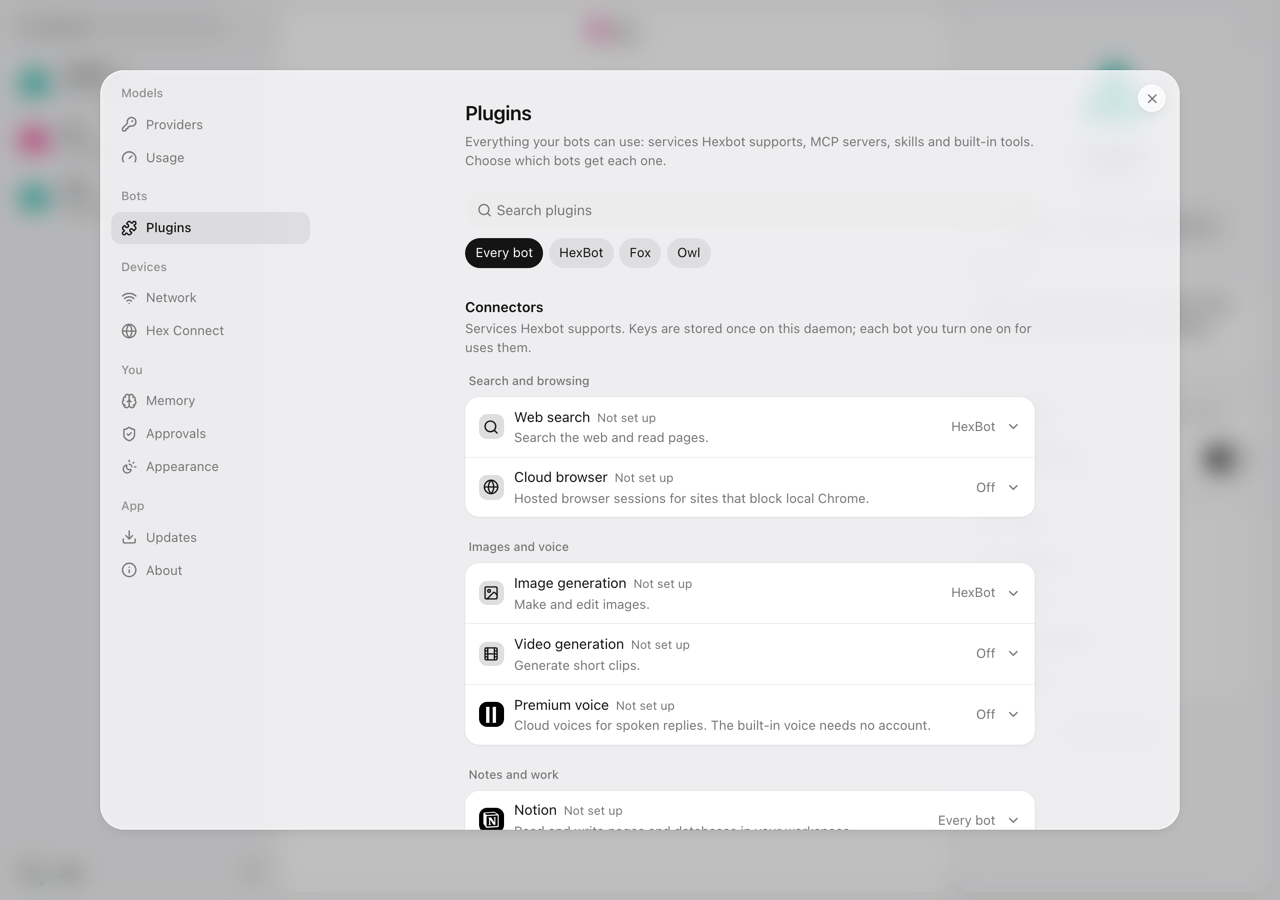
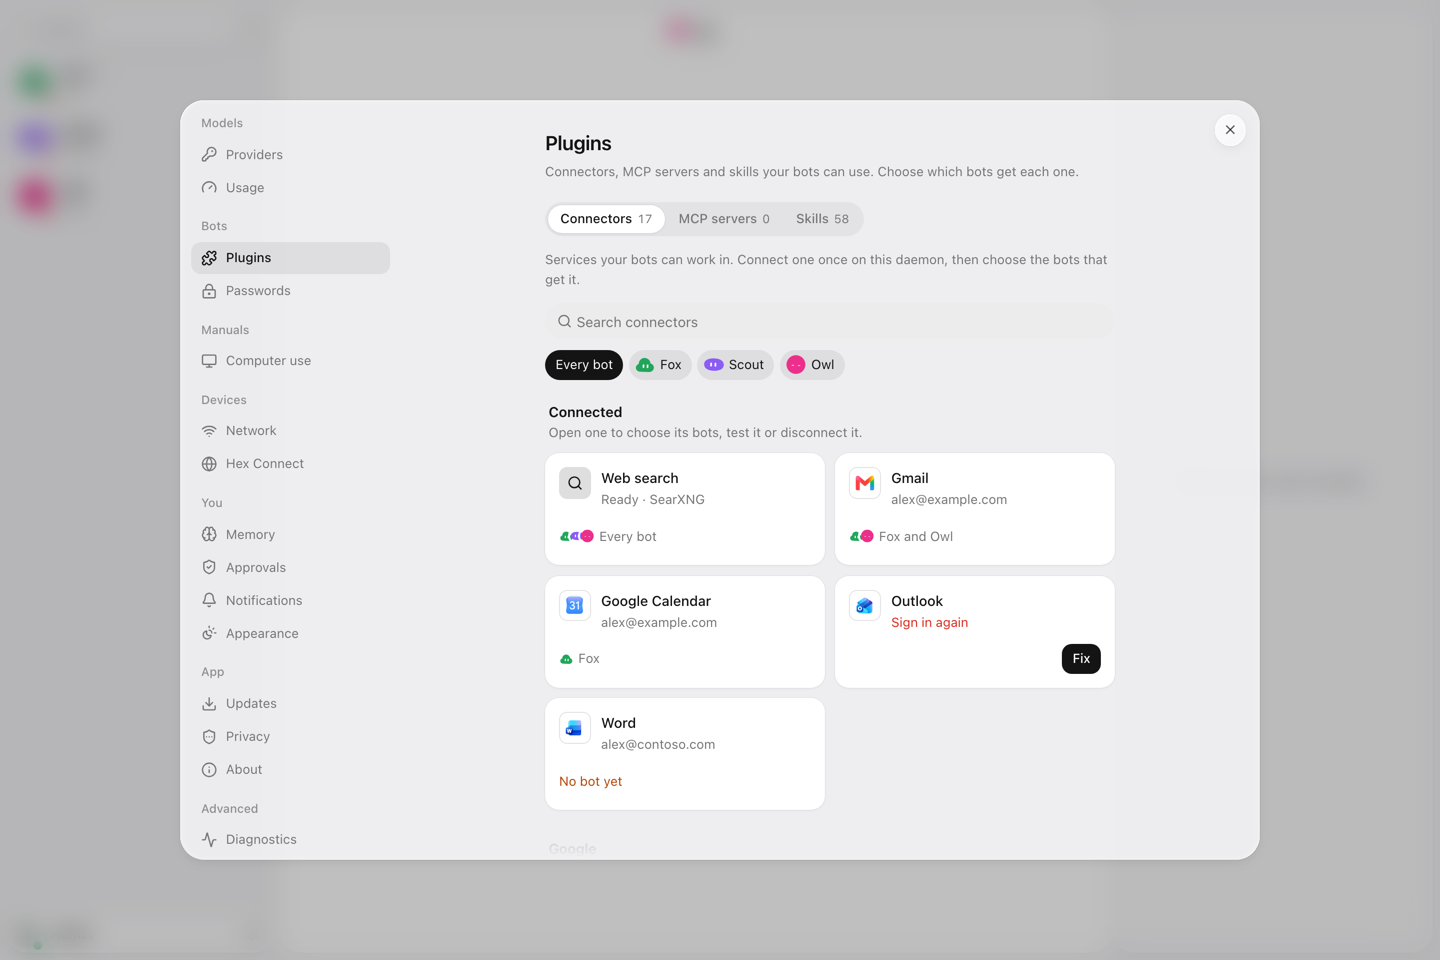
fix(daemon): a spreadsheet row too long to show is refused with the part to read first
Also refreshes the Plugins screenshots in docs/screens.

diff --git a/backend/hexbot-core/src/runtime_workspace.rs b/backend/hexbot-core/src/runtime_workspace.rs
@@ -347,13 +347,40 @@ pub(super) fn workbook_text(file: &Archive) -> Result<String> {
 
 /// Puts the rows of one read into `out`, cut to what a model is handed,
 /// with the range they are and, when rows were left, the range to read
-/// next. `rest` is what the read itself left of the range asked for.
+/// next. `rest` is what the read itself left of the range asked for. A
+/// first row that is itself too long is refused, with the part of it to
+/// read first: rows can't cut it, and nothing is dropped unsaid.
 pub(super) fn put_rows(
     out: &mut Value,
     mut rows: Vec<Value>,
     shown: excel::Range,
     rest: Option<excel::Range>,
-) {
+) -> Result<()> {
+    let cells = rows.first().and_then(Value::as_array);
+    if let Some(cells) = cells.filter(|cells| cells.len() > 1) {
+        let mut size = 0;
+        let fit = cells
+            .iter()
+            .take_while(|cell| {
+                size += cell.to_string().len();
+                size <= TEXT_CAP
+            })
+            .count();
+        if fit < cells.len() {
+            let part = excel::Range {
+                from: shown.from,
+                to: (shown.from.0, shown.from.1 + fit.max(1) as u32 - 1),
+            };
+            return Err(Error::new(
+                4202,
+                format!(
+                    "Row {} holds too much text to read whole. Read it in parts, starting with {}.",
+                    shown.from.0,
+                    part.name()
+                ),
+            ));
+        }
+    }
     let mut size = 0;
     let keep = rows
         .iter()
@@ -361,7 +388,7 @@ pub(super) fn put_rows(
             size += row.to_string().len();
             size > TEXT_CAP
         })
-        // The row that goes over still shows when it is the only one.
+        // A cell on its own always shows: no cell holds much more.
         .map_or(rows.len(), |at| at.max(1));
     let (shown, rest) = if keep < rows.len() {
         let last = shown.from.0 + keep as u32 - 1;
@@ -384,6 +411,7 @@ pub(super) fn put_rows(
     if let Some(rest) = rest {
         out["next_range"] = json!(rest.name());
     }
+    Ok(())
 }
 
 fn deck_text(slides: &[powerpoint::Slide]) -> String {
@@ -819,7 +847,7 @@ impl Runtime {
                     )
                     .await?;
                     let rows = out["rows"].take().as_array().cloned().unwrap_or_default();
-                    put_rows(&mut out, rows, shown, rest);
+                    put_rows(&mut out, rows, shown, rest)?;
                     out["id"] = json!(id);
                     return Ok(out);
                 }
@@ -843,9 +871,9 @@ impl Runtime {
                 out["sheet"] = json!(sheet.name);
                 match asked.window(grid.rows, grid.columns, READ_CELLS) {
                     Some((shown, rest)) => {
-                        put_rows(&mut out, grid.rows(shown, formulas), shown, rest)
+                        put_rows(&mut out, grid.rows(shown, formulas), shown, rest)?
                     }
-                    None => put_rows(&mut out, vec![], asked, None),
+                    None => put_rows(&mut out, vec![], asked, None)?,
                 }
                 Ok(out)
             }

diff --git a/backend/hexbot-core/src/runtime_workspace_tests.rs b/backend/hexbot-core/src/runtime_workspace_tests.rs
@@ -343,14 +343,23 @@ fn a_far_cell_or_a_large_range_reads_in_parts() {
         rows,
         asked,
         Some(excel::range("A4:A9").unwrap().1),
-    );
+    )
+    .unwrap();
     assert_eq!(out["rows"].as_array().unwrap().len(), 1);
     assert_eq!(out["range"], "A1:A1");
     assert_eq!(out["next_range"], "A2:A9");
     // What fits says nothing of a next range.
     let mut out = json!({});
-    workspace_tool::put_rows(&mut out, vec![json!([1, 2])], asked, None);
+    workspace_tool::put_rows(&mut out, vec![json!([1, 2])], asked, None).unwrap();
     assert_eq!(out, json!({"range": "A1:A3", "rows": [[1, 2]]}));
+    // A first row too long to show is refused, with the part that fits.
+    let long = vec![json!(vec!["x".repeat(25_000); 5]), json!([1])];
+    let asked = excel::range("B7:F8").unwrap().1;
+    let error = workspace_tool::put_rows(&mut json!({}), long, asked, None).unwrap_err();
+    assert_eq!(
+        error.message,
+        "Row 7 holds too much text to read whole. Read it in parts, starting with B7:C7."
+    );
 }
 
 /// These tools reach the user's own things, so a room, a thread between

diff --git a/docs/api.md b/docs/api.md
@@ -1326,7 +1326,8 @@ or a clear.
     number, text, a boolean, text starting with `=` for a formula, empty
     text to clear it, or null to leave it. Text stays text; in Google
     Sheets a date like `2026-11-12` becomes a date. One read holds at most
-    20,000 cells and 60,000 characters, and `next_range` names the rest.
+    20,000 cells and 60,000 characters, and `next_range` names the rest. A
+    row longer than that is refused, with the part of it to read first.
   - `hexbot_presentations` (Google Slides, PowerPoint): `search`, `read
     {id}`; `create {title, slides}`, `add {id, slides}`, `replace {id, find,
     replace_with}`. A slide is `{title, body}`, the body one line per line.
